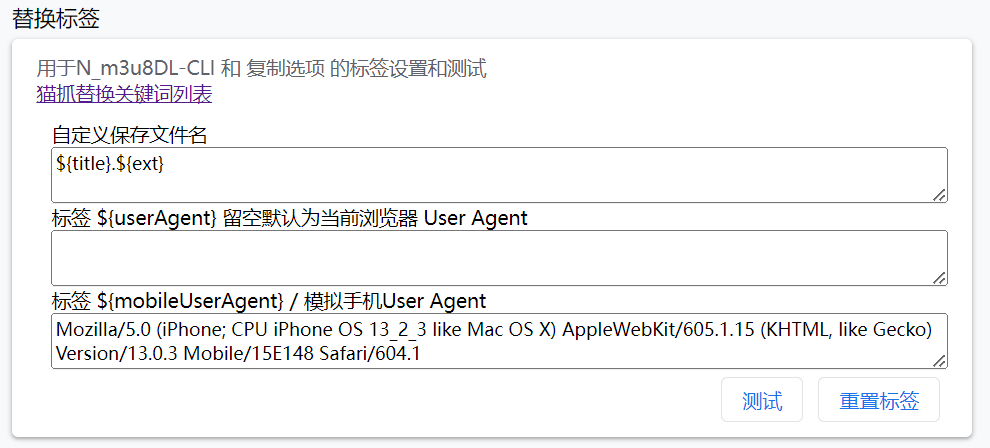
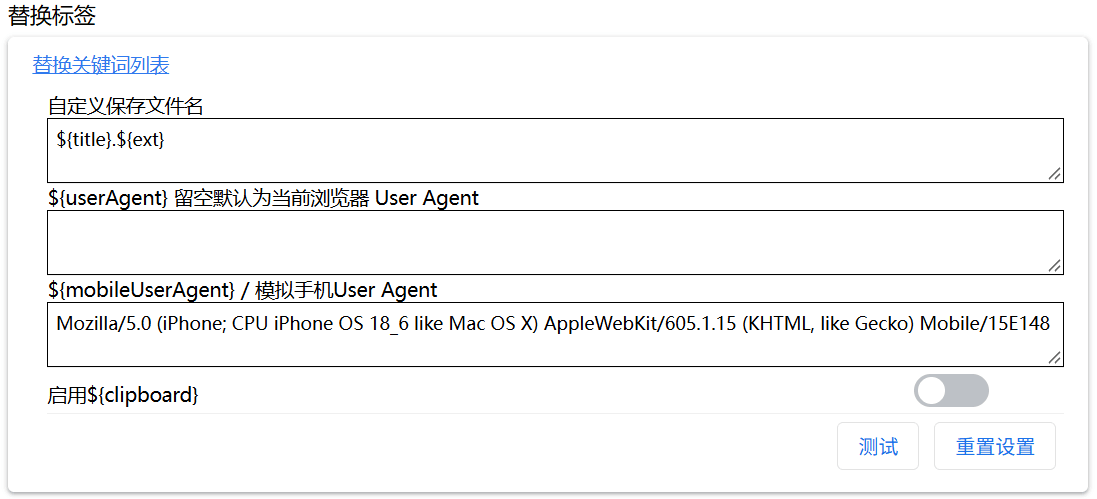
${clipboard}

diff --git a/src/en/docs/settings.md b/src/en/docs/settings.md
@@ -65,6 +65,10 @@ Used for keyword replacement in Copy, Data Send, URL Protocol m3u8dl, Invoke Pro
 
 You need to enable the `Use Custom Filename to Save File` option in **Other Settings**. You can create directories, e.g., `${title}/${fullFileName}` will finally be stored in a folder created with the title.
 
+### ${clipboard}
+
+The clipboard tag. You need to manually enable and grant the clipboard read permission for this tag to work properly.
+
 ## Invoke Local Program
 
 **For detailed usage, see the [Invoke Local Program](invoke) chapter**
@@ -75,11 +79,11 @@ You need to enable the `Use Custom Filename to Save File` option in **Other Sett
 
 ### Show Grouping
 
-When this option is enabled, a number pref*ix such as `[1]` is displayed before each resource in the resource list. Resources with the same number are most likely in the same group, i.e., the video stream and audio stream of the same video.*
+When this option is enabled, a number prefix such as `[1]` is displayed before each resource in the resource list. Resources with the same number are most likely in the same group, i.e., the video stream and audio stream of the same video.
 
-*The grouping is based on the resource capture time: by default, two resources captured within 120 milliseconds of each other are marked as one group, because video and audio data are usually loaded within a close time range. If your computer has poor performance, resources may be incorrectly grouped; you can adjust the `Grouping Time` accordingly.*
+The grouping is based on the resource capture time: by default, two resources captured within 120 milliseconds of each other are marked as one group, because video and audio data are usually loaded within a close time range. If your computer has poor performance, resources may be incorrectly grouped; you can adjust the `Grouping Time` accordingly.
 
-*The grouping is for reference only. It is mainly used to qui*ckly locate the audio corresponding to a video when there are many resources, or to determine whether the audio still needs to be downloaded for a video.
+The grouping is for reference only. It is mainly used to quickly locate the audio corresponding to a video when there are many resources, or to determine whether the audio still needs to be downloaded for a video.
 
 ### Never Enable Cat Catch Downloader
 

diff --git a/src/docs/settings.md b/src/docs/settings.md
@@ -65,6 +65,9 @@
 
 需打开 **其他设置** 里 `使用自定义文件名保存文件` 选项。可以创建目录 例`${title}/${fullFileName}` 最后储存在 以 title 创建的文件夹内。
 
+### ${clipboard}
+剪贴板标签，需手动打开申请剪贴板读取权限，才能够正常使用该标签。
+
 ## 调用本地程序
 
 **详细使用方法查看 [调用本地程序](invoke) 章节**
